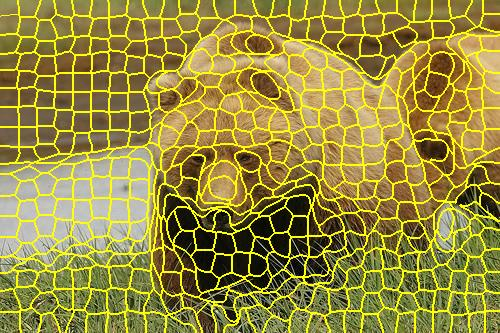
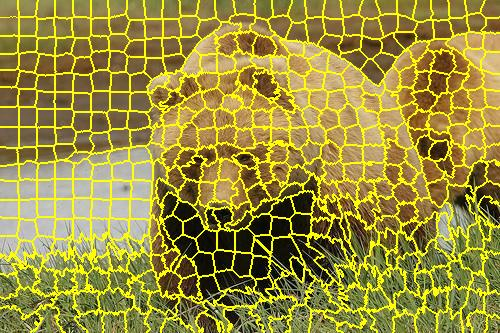
Fixed histogram energy function

diff --git a/algorithms/algorithms.py b/algorithms/algorithms.py
@@ -26,11 +26,11 @@ class Algorithms:
         self.imgs_cosegmented = dict()
 
     # generate super-pixel segments for all images using SLIC
-    def compute_superpixels_slic(self, num_segments, compactness=10.0, max_item=10, sigma=5):
+    def compute_superpixels_slic(self, num_segments, compactness=10.0, max_iter=10, sigma=0):
         for image in self.images:
             self.imgs_float64[image] = slic.read_image_as_float64(image)
             self.imgs_segmentation[image] = slic.get_segmented_image(self.imgs_float64[image], num_segments,
-                                                                     compactness, max_item, sigma)
+                                                                     compactness, max_iter, sigma)
             self.imgs_segment_ids[image] = np.unique(self.imgs_segmentation[image])
 
     # generate hsv histograms for every segment in all images
@@ -92,18 +92,19 @@ class Algorithms:
         # Smoothness term: cost between neighbors
         for i in range(len(self.imgs_segment_neighbors[image_path])):
             N = self.imgs_segment_neighbors[image_path][i]  # list of neighbor superpixels
-            hi = self.imgs_segment_histograms_hsv_normalized[image_path][i]  # histogram for center
+            hi = self.imgs_segment_histograms_hsv_normalized[image_path][i].flatten()  # histogram for center
             for n in N:
                 if (n < 0) or (n > num_nodes):
                     continue
                 # Create two edges (forwards and backwards) with capacities based on
                 # histogram matching
-                hn = self.imgs_segment_histograms_hsv_normalized[image_path][n]  # histogram for neighbor
+                hn = self.imgs_segment_histograms_hsv_normalized[image_path][n].flatten()  # histogram for neighbor
                 g.add_edge(nodes[i], nodes[n], 20 - cv2.compareHist(hi, hn, hist_comp_alg),
                            20 - cv2.compareHist(hn, hi, hist_comp_alg))
 
         # Match term: cost to FG/BG
         for i, h in enumerate(self.imgs_segment_histograms_hsv_normalized[image_path]):
+            h = h.flatten()
             if i in fgbg_superpixels[0]:
                 g.add_tedge(nodes[i], 0, 1000)  # FG - set high cost to BG
             elif i in fgbg_superpixels[1]:
@@ -117,28 +118,22 @@ class Algorithms:
 
     def compute_cosegmentations(self):
         # get cumulative BG/FG histograms, being the sum of the selected superpixel IDs normalized
-        h_fg = None
-        h_bg = None
-        for img in self.images:
-            if img in self.imgs_foreground_segments:
-                # TODO this is ugly
-                if h_fg is None:
-                    h_fg = np.sum(self.imgs_segment_histograms_hsv[img][self.imgs_foreground_segments[img]], axis=0)
-                else:
-                    h_fg += np.sum(self.imgs_segment_histograms_hsv[img][self.imgs_foreground_segments[img]], axis=0)
-            if img in self.imgs_background_segments:
-                if h_bg is None:
-                    h_bg = np.sum(self.imgs_segment_histograms_hsv[img][self.imgs_background_segments[img]], axis=0)
-                else:
-                    h_bg += np.sum(self.imgs_segment_histograms_hsv[img][self.imgs_background_segments[img]], axis=0)
-        fg_cumulative_hist = h_fg / h_fg.sum()
-        bg_cumulative_hist = h_bg / h_bg.sum()
+
+        # for each image sum up the histograms of the chosen segments
+        list_h_fg = [np.sum([h.flatten() for h in self.imgs_segment_histograms_hsv[img][self.imgs_foreground_segments[img]]], axis=0) for img in self.images]
+        list_h_bg = [np.sum([h.flatten() for h in self.imgs_segment_histograms_hsv[img][self.imgs_background_segments[img]]], axis=0) for img in self.images]
+
+        # combine the histograms from each image into one
+        combined_h_fg = np.sum(list_h_fg, axis=0)
+        combined_h_bg = np.sum(list_h_bg, axis=0)
+
+        # normalize the histograms to get the cumulative histograms
+        fg_cumulative_hist = combined_h_fg / combined_h_fg.sum()
+        bg_cumulative_hist = combined_h_bg / combined_h_bg.sum()
 
         for img in self.images:
-            foreground = self.imgs_foreground_segments[img]
-            background = self.imgs_background_segments[img]
-
-            graph_cut = self.do_graph_cut(img, (fg_cumulative_hist, bg_cumulative_hist), (foreground, background))
+            graph_cut = self.do_graph_cut(img, (fg_cumulative_hist, bg_cumulative_hist),
+                                          (self.imgs_foreground_segments[img], self.imgs_background_segments[img]))
 
             # Get a bool mask of the pixels for a given selection of superpixel IDs
             segmentation = np.where(np.isin(self.imgs_segmentation[img], np.nonzero(graph_cut)), True, False)
@@ -172,13 +167,13 @@ class Algorithms:
             plt.clf()
 
 
-def main():
+if __name__ == '__main__':
     image_paths = ['images/bear1.jpg', 'images/bear2.jpg', 'images/bear3.jpg', 'images/bear4.jpg', 'images/bear5.jpg']
 
     alg = Algorithms(image_paths)
 
     # Segment the images into superpixels using slic and compute for each superpixel a list of its neighbors
-    alg.compute_superpixels_slic(num_segments=500, compactness=10.0, max_item=10, sigma=5)
+    alg.compute_superpixels_slic(num_segments=500, compactness=20.0, max_iter=10, sigma=0)
     alg.compute_neighbors()
 
     alg.save_segmented_images('output/superpixel')
@@ -203,10 +198,6 @@ def main():
 
     alg.show_histogram('images/bear1.jpg')
     alg.show_histogram('images/bear1.jpg', 1)
-
-
-if __name__ == '__main__':
-    main()
 
 # TODO
 # SLIC superpixel labels containing pixels could be more efficient with numpy

diff --git a/algorithms/test.py b/algorithms/test.py
@@ -5,10 +5,9 @@ from skimage.segmentation import slic
 from skimage.segmentation import mark_boundaries
 from skimage.data import astronaut
 from skimage.util import img_as_float
-from skimage import io
 import maxflow
+from skimage import io
 from scipy.spatial import Delaunay
-
 
 # Calculate the SLIC superpixels, their histograms and neighbors
 def superpixels_histograms_neighbors(img):
@@ -25,15 +24,10 @@ def superpixels_histograms_neighbors(img):
     ranges = [0, 360, 0, 1] # H: [0, 360], S: [0, 1]
     colors_hists = np.float32([cv2.calcHist([hsv],[0, 1], np.uint8(segments==i), bins, ranges).flatten() for i in segments_ids])
 
-    hist = cv2.calcHist([hsv], [0, 1], np.uint8(segments==25), bins, ranges)
-    plt.imshow(hist, interpolation='nearest')
-    plt.show()
-
     # neighbors via Delaunay tesselation
     tri = Delaunay(centers)
 
     return (centers,colors_hists,segments,tri.vertex_neighbor_vertices)
-
 
 # Get superpixels IDs for FG and BG from marking
 def find_superpixels_under_marking(marking, superpixels):
@@ -41,23 +35,21 @@ def find_superpixels_under_marking(marking, superpixels):
     bg_segments = np.unique(superpixels[marking[:,:,2]!=255])
     return (fg_segments, bg_segments)
 
-
 # Sum up the histograms for a given selection of superpixel IDs, normalize
 def cumulative_histogram_for_superpixels(ids, histograms):
-    h = np.sum(histograms[ids], axis=0)
+    h = np.sum(histograms[ids],axis=0)
+    print(h)
+    exit()
     return h / h.sum()
-
 
 # Get a bool mask of the pixels for a given selection of superpixel IDs
 def pixels_for_segment_selection(superpixels_labels, selection):
     pixels_mask = np.where(np.isin(superpixels_labels, selection), True, False)
     return pixels_mask
 
-
 # Get a normalized version of the given histograms (divide by sum)
 def normalize_histograms(histograms):
     return np.float32([h / h.sum() for h in histograms])
-
 
 # Perform graph cut using superpixels histograms
 def do_graph_cut(fgbg_hists, fgbg_superpixels, norm_hists, neighbors):
@@ -70,9 +62,10 @@ def do_graph_cut(fgbg_hists, fgbg_superpixels, norm_hists, neighbors):
     hist_comp_alg = cv2.HISTCMP_KL_DIV
 
     # Smoothness term: cost between neighbors
-    for i in range(len(neighbors)):
-        N = neighbors[i]    # list of neighbor superpixels
-        hi = norm_hists[i]  # histogram for center
+    indptr,indices = neighbors
+    for i in range(len(indptr)-1):
+        N = indices[indptr[i]:indptr[i+1]] # list of neighbor superpixels
+        hi = norm_hists[i]                 # histogram for center
         for n in N:
             if (n < 0) or (n > num_nodes):
                 continue
@@ -80,28 +73,25 @@ def do_graph_cut(fgbg_hists, fgbg_superpixels, norm_hists, neighbors):
             # histogram matching
             hn = norm_hists[n]             # histogram for neighbor
             g.add_edge(nodes[i], nodes[n], 20-cv2.compareHist(hi, hn, hist_comp_alg),
-                       20-cv2.compareHist(hn, hi, hist_comp_alg))
+                                           20-cv2.compareHist(hn, hi, hist_comp_alg))
 
     # Match term: cost to FG/BG
-    for i, h in enumerate(norm_hists):
+    for i,h in enumerate(norm_hists):
         if i in fgbg_superpixels[0]:
             g.add_tedge(nodes[i], 0, 1000) # FG - set high cost to BG
         elif i in fgbg_superpixels[1]:
             g.add_tedge(nodes[i], 1000, 0) # BG - set high cost to FG
         else:
             g.add_tedge(nodes[i], cv2.compareHist(fgbg_hists[0], h, hist_comp_alg),
-                        cv2.compareHist(fgbg_hists[1], h, hist_comp_alg))
+                                  cv2.compareHist(fgbg_hists[1], h, hist_comp_alg))
 
     g.maxflow()
     return g.get_grid_segments(nodes)
 
 
 if __name__ == '__main__':
-    #img = img_as_float(astronaut()[::2, ::2])
-    #img_marking = cv2.imread("images/Untitled.png")
-
-    img = img_as_float(io.imread('images/bear2.jpg'))
-    img_marking = cv2.imread('markings/bear2.jpg')
+    img = img_as_float(io.imread("images/bear5.jpg"))
+    img_marking = cv2.imread("markings/bear5.jpg")
 
     centers, colors_hists, segments, neighbors = superpixels_histograms_neighbors(img)
     fg_segments, bg_segments = find_superpixels_under_marking(img_marking, segments)
@@ -116,3 +106,17 @@ if __name__ == '__main__':
                              (fg_segments,        bg_segments),
                              norm_hists,
                              neighbors)
+
+    plt.subplot(1,2,2), plt.xticks([]), plt.yticks([])
+    plt.title('segmentation')
+    segmask = pixels_for_segment_selection(segments, np.nonzero(graph_cut))
+    cv2.imwrite("output_segmentation.png", np.uint8(segmask * 255))
+    plt.imshow(segmask)
+
+    plt.subplot(1,2,1), plt.xticks([]), plt.yticks([])
+    img = mark_boundaries(img, segments)
+    img[img_marking[:,:,0]!=255] = (1,0,0)
+    img[img_marking[:,:,2]!=255] = (0,0,1)
+    plt.imshow(img)
+    plt.title("SLIC + markings")
+    plt.savefig("segmentation.png",bbox_inches='tight',dpi=96)
